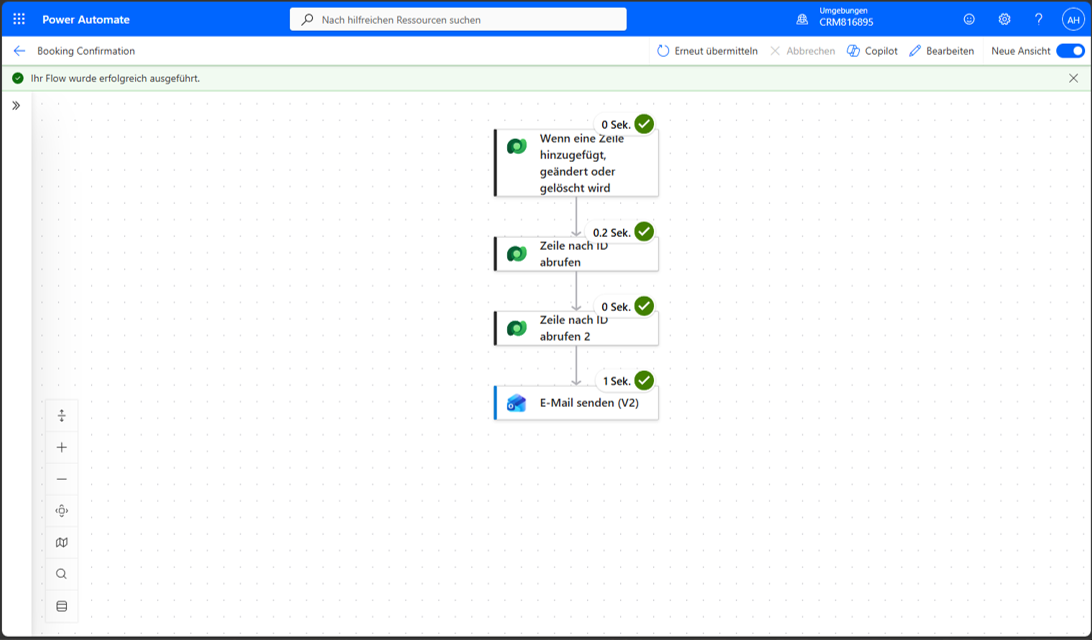
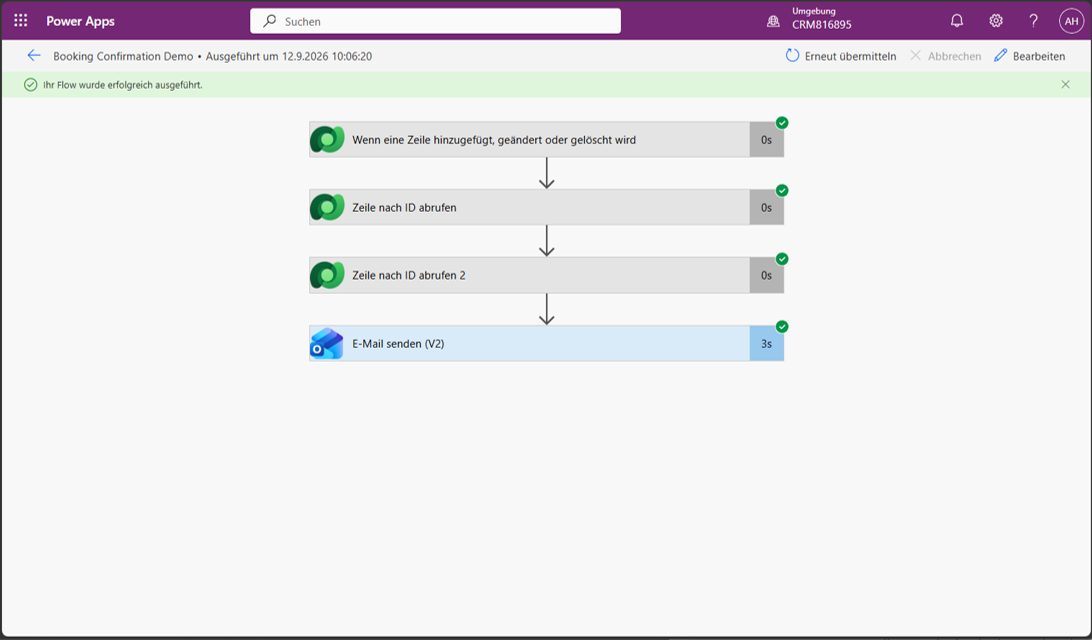
Finalize Booking Confirmation flow recovery

diff --git a/docs/case-guide/02-booking-confirmation.md b/docs/case-guide/02-booking-confirmation.md
@@ -10,13 +10,14 @@ Power Automate turns a new Dataverse Booking into an Outlook confirmation email 
 
 ## 3. What We Built
 
-The `Booking Confirmation` Power Automate flow in environment `CRM816895` retrieves the related employee and room, then sends a confirmation through Office 365 Outlook. The flow overview shows status On and Microsoft Dataverse and Office 365 Outlook connection references. `Achim Beispiel` is the unmanaged solution/project context; flow membership in that solution is not separately recorded.
+The `Booking Confirmation` Power Automate flow in environment `CRM816895` retrieves the related employee and room, then sends a confirmation through Office 365 Outlook. The unmanaged solution `Achim Beispiel` contains exactly one `Booking Confirmation` cloud flow, and it is enabled. This is the verified replacement flow after the connection recovery described below.
 
 ## 4. Where to Find It
 
 - **Flow overview:** Power Automate → environment `CRM816895` → My flows (`Meine Flows`) → `Booking Confirmation`.
+- **Solution:** Power Apps Maker → environment `CRM816895` → Solutions → `Achim Beispiel` → cloud flow `Booking Confirmation`.
 - **Edit:** From the overview, select Edit (`Bearbeiten`) to inspect the trigger and actions.
-- **Run history:** On the overview, find the 28-day run history (`Ausführungsverlauf über 28 Tage`); use All runs (`Alle Ausführungen`) for the full list. Select a run to inspect its steps. The recorded successful run started on `2026-09-09` at `13:11`.
+- **Run history:** On the overview, find the 28-day run history (`Ausführungsverlauf über 28 Tage`); use All runs (`Alle Ausführungen`) for the full list. Select a run to inspect its steps. The final successful run was on `2026-09-12`; its screenshot shows the temporary pre-rename name `Booking Confirmation Demo`. The current flow name is `Booking Confirmation`.
 - **Run details:** Open an action to inspect its inputs and outputs. Green check marks indicate successful steps; inspect the action status and error when a run fails or keeps retrying.
 - **Flow checker:** Select `Flowprüfung` on the overview to check configuration errors and warnings.
 - **Connections:** The overview's Connection references (`Verbindungsreferenzen`) panel lists Microsoft Dataverse and Office 365 Outlook; use Show all (`Alle anzeigen`) to inspect the references. Inspect the associated Dataverse connection and the flows using it when troubleshooting.
@@ -39,34 +40,34 @@ Dataverse provides the event and business data; Office 365 Outlook delivers the 
 
 ## 6. Result and Verification
 
-COMPLETED and VERIFIED. A Booking for `2026-09-09`, room `Graz Meeting Room 01`, triggered all four stages successfully. The run displays `Ihr Flow wurde erfolgreich ausgeführt.` The actual email was received on `2026-09-09` at `13:11` with subject `Room booking confirmation` and this body:
+COMPLETED and VERIFIED. On `2026-09-12`, test Booking `Booking Confirmation Demo Test`, Booking Date `2026-09-12`, room `Graz Meeting Room 01`, employee Achim Hepberger, triggered all four stages successfully in the replacement flow. The run displays `Ihr Flow wurde erfolgreich ausgeführt.` The confirmation email was received with subject `Room booking confirmation` and this body:
 
 ```text
 Your room booking has been confirmed.
 
-Booking date: 2026-09-09
+Booking date: 2026-09-12
 Room: Graz Meeting Room 01
 
 Thank you.
 ```
 
-This verifies Booking creation → flow execution → related data retrieval → confirmation email received. Later connectivity trouble does not invalidate this successful end-to-end verification.
+This verifies Booking creation → flow execution → related data retrieval → confirmation email received. After successful verification, the replacement was renamed from `Booking Confirmation Demo` to `Booking Confirmation`. The original flow was deactivated and deleted; the solution now contains exactly one enabled Booking Confirmation flow.
 
 ## 7. Offline Evidence
 
-Evidence status: AVAILABLE — three screenshots covering availability, execution and the business result. Use dedicated demonstration data and avoid unnecessary personal information.
+Evidence status: AVAILABLE — two final runtime screenshots from 2026-09-12 and one historical overview. Use dedicated demonstration data and avoid unnecessary personal information.
 
 <img src="evidence/02-booking-confirmation-flow-overview.png" alt="Booking Confirmation overview in CRM816895 showing On status, run history and Dataverse and Outlook connection references" width="80%">
 
-**Flow overview:** Shows the available flow in `CRM816895`, status On, required connection references and the successful `2026-09-09 13:11` run. The two cancelled September 11 runs relate to the troubleshooting incident below.
+**Historical flow overview:** Shows the original flow in `CRM816895`, status On, required connection references and the successful `2026-09-09 13:11` run. The two cancelled September 11 runs relate to the troubleshooting incident below. This overview predates replacement and is not evidence of the current flow inventory.
 
 <img src="evidence/02-booking-confirmation-successful-run.png" alt="Booking Confirmation successful run with four green completed steps" width="80%">
 
-**Runtime execution:** The success banner and four green check marks show that the trigger, both Dataverse retrievals and Outlook email action completed successfully.
+**Final runtime execution (2026-09-12):** The success banner and four green check marks show that the trigger, both Dataverse retrievals and Outlook email action completed successfully. The screenshot was captured before the replacement was renamed from `Booking Confirmation Demo` to its final name `Booking Confirmation`.
 
-<img src="evidence/02-booking-confirmation-email.png" alt="Received Outlook confirmation email with booking date 2026-09-09 and room Graz Meeting Room 01" width="80%">
+<img src="evidence/02-booking-confirmation-email.png" alt="Received Outlook confirmation email with booking date 2026-09-12 and room Graz Meeting Room 01" width="80%">
 
-**Business result:** The received Outlook message shows the subject, recipient, booking date, room and `2026-09-09 13:11` timestamp. It confirms delivery beyond the successful action status.
+**Business result:** The received Outlook message shows the subject, recipient, booking date, room and `2026-09-12 10:06` timestamp. It confirms delivery beyond the successful action status.
 
 See the [evidence instructions](evidence/README.md). A restart/live demo rehearsal remains pending.
 
@@ -96,13 +97,15 @@ Explanatory examples only; these are not additional implemented SmartPoint funct
 
 **Recognizing a hostname problem:** During a retest, the first Get a row by ID reported `UnresolvableHostName`, `HostNotFound` and `No such host is known`, despite valid-looking inputs: `entityName=systemusers`, `recordId=beb96a80-5bab-f111-aaac-7c1e5240ac7b`, connection reference `shared_commondataserviceforapps`. The stale hostname `org96048834.crm3.dynamics.com` differed from the current environment URL, `https://oebb-stoerungsmanagement.crm3.dynamics.com`. This pointed toward connection/backend/discovery trouble, not immediate proof of bad Booking/User data.
 
-**Actions taken:** The Dataverse connection showed Connected and listed Booking Confirmation as a flow using it. The user selected Switch account (`Konto wechseln`), reauthenticated and saved the flow; this does not establish that reauthentication fixed the hostname issue. Flow checker showed 0 errors and 0 warnings. Two obsolete retrying runs from `2026-09-11` were cancelled. The successful end-to-end verification remains valid.
+**Verified recovery (2026-09-12):** The business logic was already known to work from the earlier successful run. Inspecting the existing connection showed Connected, but Switch account (`Konto wechseln`), reauthentication and saving did not resolve the stale-host behavior. Creating a fresh flow copy and rebinding its Dataverse connections resolved the issue, as confirmed by the successful end-to-end replacement test. After verification, `Booking Confirmation Demo` was renamed to `Booking Confirmation`. The problematic original was deactivated and deleted. No more specific internal Power Platform root cause is established.
+
+The earlier Flow checker result was 0 errors and 0 warnings; that did not establish runtime connectivity. Two obsolete retrying runs from `2026-09-11` were cancelled. The recovery concerns connection/runtime behavior, not a demonstrated defect in the booking-confirmation logic.
 
 **If a Dataverse step unexpectedly retries or reports a hostname error:**
 
 1. Inspect the failed action's table and record ID before assuming Booking/User data is wrong.
 2. Inspect the Dataverse connection used by Booking Confirmation and its authentication/connection status.
-3. Reauthenticate or switch account if appropriate, then save the flow.
+3. Reauthenticate if appropriate, but if stale-host behavior persists, the verified recovery was a fresh copy with rebound Dataverse connections. Verify the replacement end-to-end before treating recovery as complete.
 4. Use Flow checker to check configuration errors and warnings; it does not prove runtime connectivity.
 5. Retest with a fresh Booking, inspect the run and confirm actual email receipt.
 6. Cancel obsolete retrying runs if necessary.

diff --git a/PROJECT_PLAN.md b/PROJECT_PLAN.md
@@ -43,7 +43,7 @@ Status: COMPLETED to the extent required for the SmartPoint case. The Dataverse 
 
 ### 2. Booking Confirmation Power Automate Flow
 
-Status: COMPLETED and VERIFIED. The saved flow successfully processed a new Booking and delivered the confirmation email to the user's Microsoft 365 mailbox. Implementation, verification, and troubleshooting are recorded under Completed Work.
+Status: COMPLETED and VERIFIED, including successful replacement-flow recovery and end-to-end verification on 2026-09-12. The final enabled flow successfully processed a new Booking and delivered the confirmation email to the user's Microsoft 365 mailbox. Implementation, verification, and troubleshooting are recorded under Completed Work.
 
 - Trigger when a booking is created.
 - Send the employee a confirmation email for the booked day.
@@ -170,12 +170,12 @@ This is a conscious scope decision, not an unnoticed defect. Completion of the R
 
 ### Verified Booking Confirmation Flow
 
-- Flow name: `Booking Confirmation`; environment: `CRM816895`.
+- Flow name: `Booking Confirmation`; environment: `CRM816895`; unmanaged solution: `Achim Beispiel`. The solution contains exactly one enabled Booking Confirmation cloud flow.
 - Trigger: Microsoft Dataverse — `When a row is added, modified or deleted`, configured to react to creation of a Booking record.
 - The Booking contains Employee and Room lookups. A Dataverse `Get a row by ID` action resolves the Employee/User record; the Employee's Primary Email supplies the recipient.
 - A second Dataverse `Get a row by ID` action resolves the Room record; Room Name supplies the room text. Booking Date comes from the Booking record.
 - Email action: Office 365 Outlook — `Send an email (V2)`. Subject: `Room booking confirmation`. The body contains confirmation text, Booking Date, and Room Name.
-- The flow was successfully saved and tested end-to-end using a new Booking named `Flow Test`, dated `2026-09-09`, for room `Graz Meeting Room 01` and employee `Achim Hepberger`.
+- Final end-to-end verification on `2026-09-12` used Booking `Booking Confirmation Demo Test`, Booking Date `2026-09-12`, room `Graz Meeting Room 01`, and employee `Achim Hepberger`. All four replacement-flow steps succeeded and the email with subject `Room booking confirmation`, the correct date and room was received. After verification, the replacement was renamed from `Booking Confirmation Demo` to `Booking Confirmation`. Documentation remains REVIEWED and APPROVED; demo rehearsal remains PENDING.
 - All four flow stages completed successfully, and the confirmation email was actually received in the user's Microsoft 365 mailbox with the correct booking date and room. This constitutes functional verification of the SmartPoint booking-confirmation requirement.
 
 ### Booking Confirmation Troubleshooting History
@@ -186,6 +186,8 @@ This is a conscious scope decision, not an unnoticed defect. Completion of the R
 4. A separate issue occurred during the first execution: the initially selected generic Mail action, `Send an email notification (V3)`, failed with Microsoft's message that the Mail connector is currently restricted for new tenants and suggested alternatives such as Office 365 Outlook.
 5. The Mail action was replaced with Office 365 Outlook — `Send an email (V2)`, and the existing dynamic values were restored: Employee Primary Email, Booking Date, and Room Name.
 6. After saving the updated flow, a new Booking triggered it successfully; all four stages completed and the received email contained the correct booking date and room. Office 365 Outlook is the final working mail connector.
+
+7. Later stale-host recovery (2026-09-12): the original flow failed with `UnresolvableHostName` / `HostNotFound` and referenced a stale Dataverse hostname. Reauthentication did not resolve it. A fresh copy with rebound Dataverse connections succeeded end-to-end; the original was deactivated and deleted. This resolved the connection/runtime issue without establishing a more specific internal Power Platform root cause; the business logic had already worked in the earlier test.
 
 ## Case Consolidation and Demonstration Readiness
 
